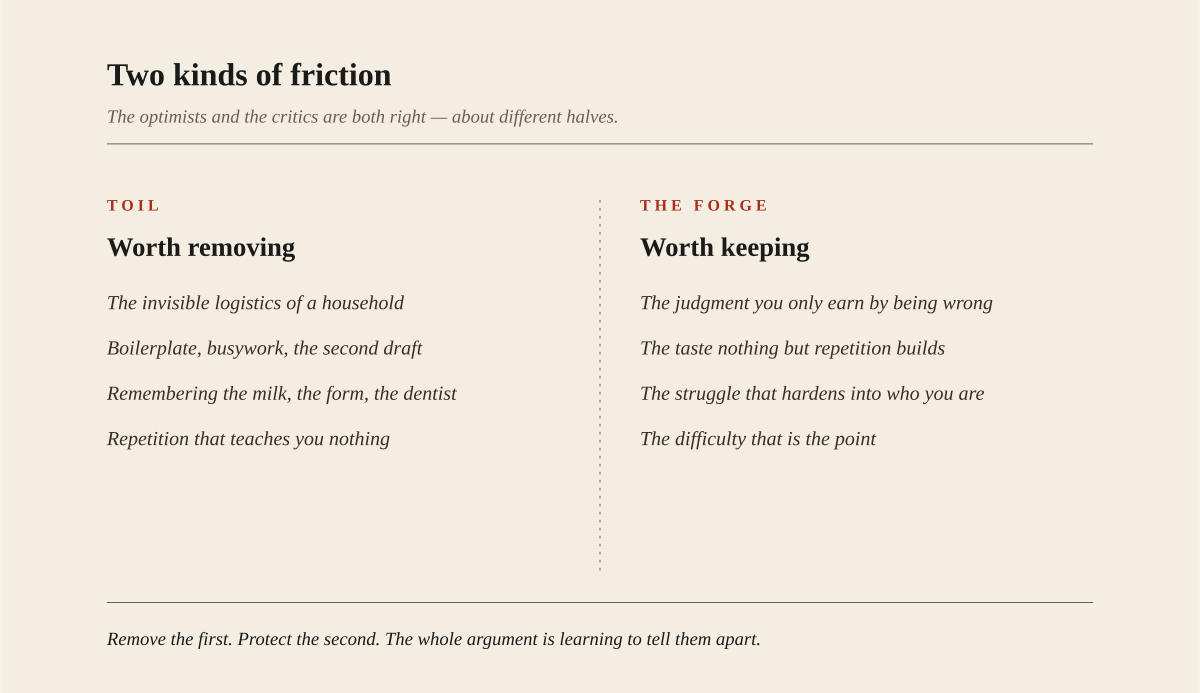
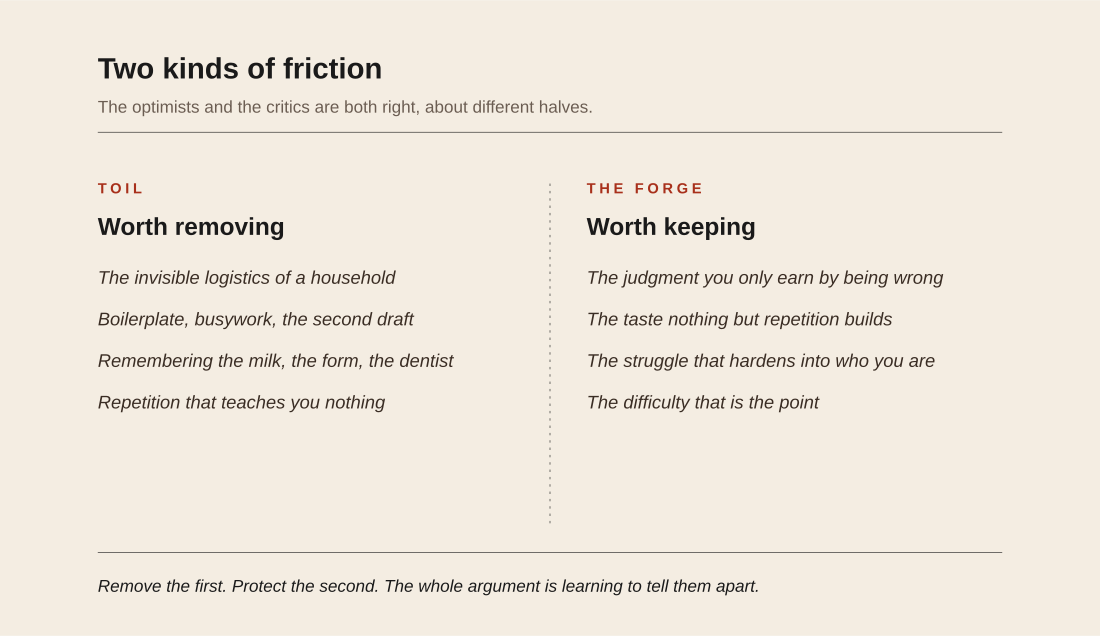
feat(blog): two-graphic system — push/let-go loop hero + two-kinds panel
Replaces the line chart with a Galloway-style loop that reads in one beat:
the work you control -> push hard -> the outcome you don't -> be patient ->
back around. Slims the essay to two graphics (loop + two kinds of friction),
retires the inputs/results and growth-curve graphics, de-references the hump
("draw it" -> prose), and fixes an em-dash in the panel.

diff --git a/src/pages/blog/in-what-furnace.md b/src/pages/blog/in-what-furnace.md
@@ -7,7 +7,7 @@ category: "Essay"
 ogImage: "/images/posts/in-what-furnace-hero.png"
 ---
 
-![Impatient with inputs. Patient with results.](/images/posts/in-what-furnace-hero.svg)
+![Push hard on the work you control, be patient with the outcome you don't, and repeat](/images/posts/in-what-furnace-hero.svg)
 
 The case against AI usually gets written off as fear of the unknown. It isn't. The fear is specific, and we earned it.
 
@@ -29,13 +29,9 @@ The trouble is that the two look the same from outside. Both show up as time, as
 
 I've used one rule for as long as I can remember, since long before any of this: be impatient with your inputs and patient with your results. Inputs are the part you control: the work you actually put in, the question you took the trouble to get right. Results are whatever the world does with that, on a clock you don't set. Aimed at your inputs, impatience is just focus. Aimed at your results, it curdles into anxiety, and nothing arrives a minute sooner for it. Most of the misery I've watched people make for themselves is impatience pointed at the wrong half.
 
-![Where to aim your impatience: focus on the inputs you control, patience for the results you don't](/images/posts/impatience-inputs-results.svg)
-
 Frictionless AI sells the opposite habit. It hands you the result now and tells you the inputs are the machine's job. That is the rule backward. The odd thing is that when I use these tools well, I do the reverse of what the pitch describes. I get more careful with the inputs, not less, because the tool took the busywork and gave me back the work that needs judgment.
 
-Draw it and you don't get a line that rises as effort falls. You get a hump. Too little friction and you go slack. Too much and you break. Whoever you're trying to become turns up somewhere in the middle. "Frictionless" is a sales word for the far left of that curve, and it's sold to you as freedom.
-
-![Where growth lives: the hump of friction against who you become](/images/posts/friction-growth-curve.svg)
+It isn't a line that climbs as effort falls. It's a hump. Too little friction and you go slack. Too much and you break. Whoever you're trying to become turns up somewhere in the middle. "Frictionless" is a sales word for the far left of that hump, and it's sold to you as freedom.
 
 Almost none of what counts survives as a number. The result is what gets written down: the company that sold, the grade, the launch. But the result is rarely the thing that changed you. Ask anyone about the work that made them who they are, and they won't tell you how it came out. They'll tell you about the stretch when they weren't sure it would. That stretch is exactly what frictionless is offering to take off your hands, and it was the only part that was ever yours.
 